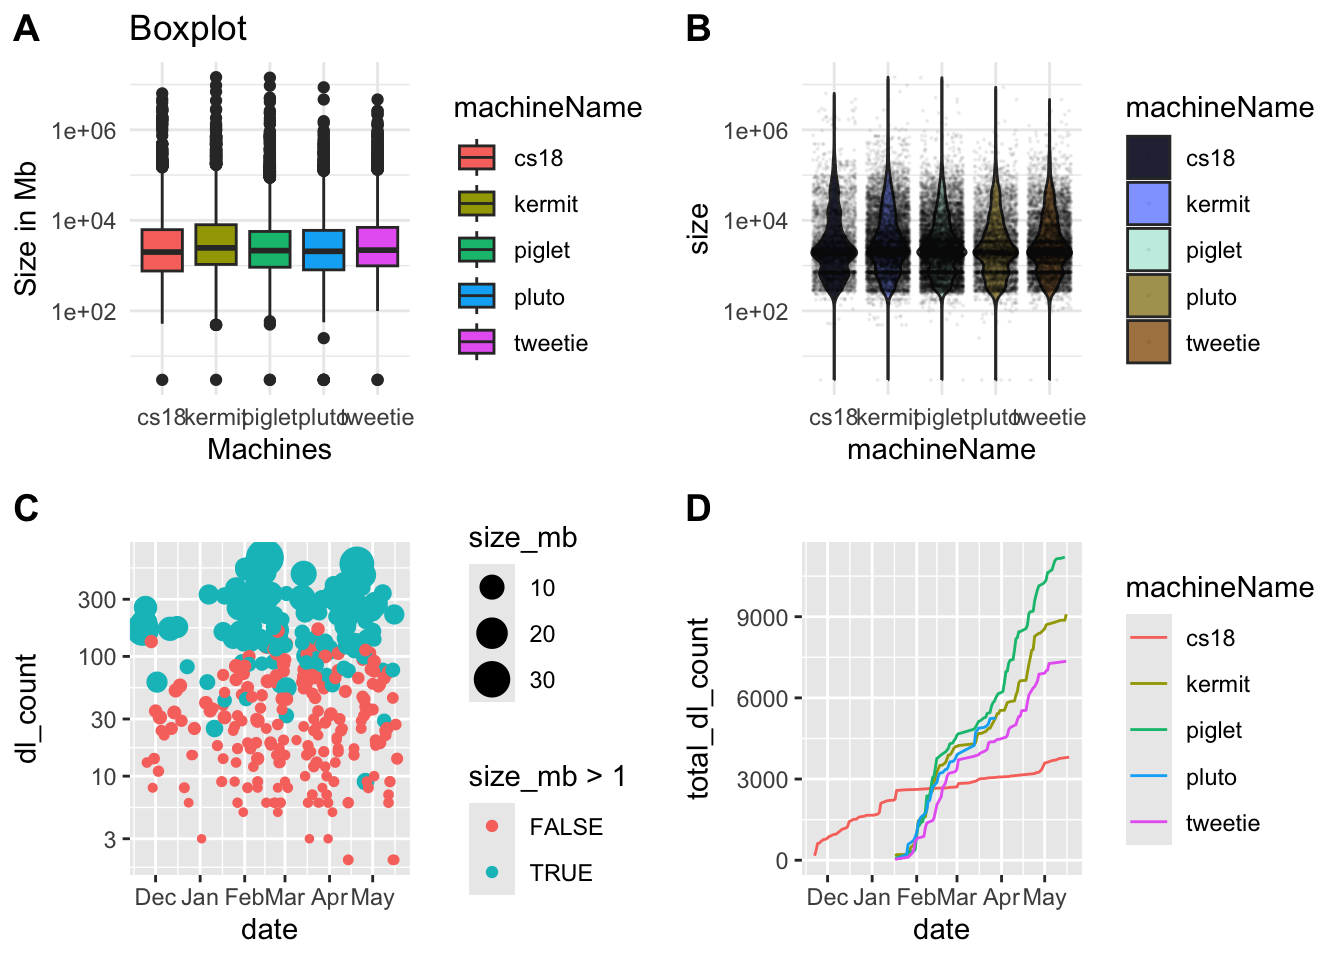
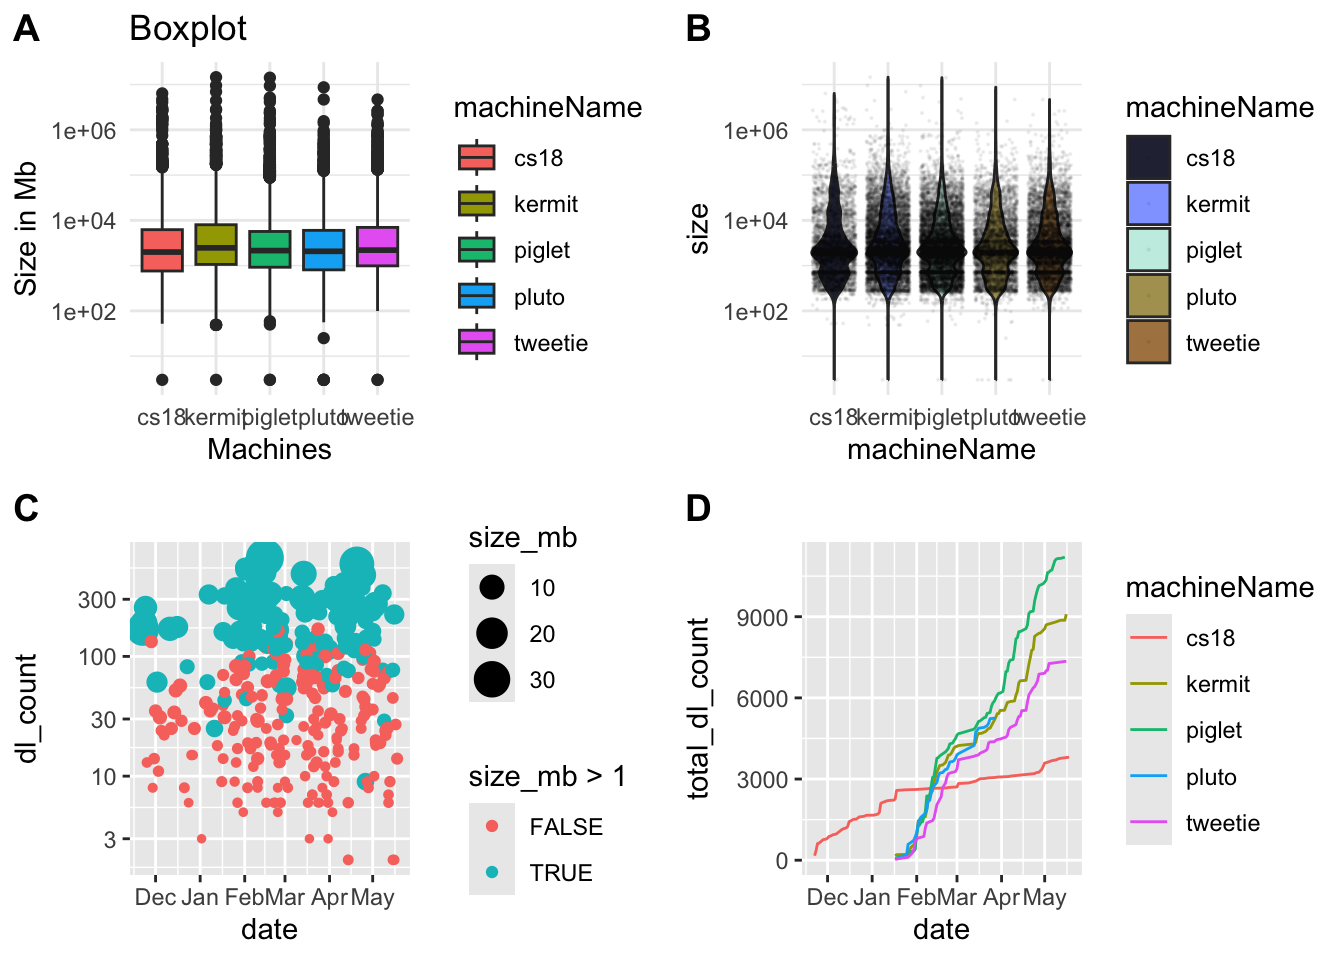
presentations folder remade

Changed region(s): [[0.5938, 0.1562, 0.8125, 0.3125]]

diff --git a/docs/Presentations/presentation4.html b/docs/Presentations/presentation4.html
@@ -551,7 +551,7 @@ window.Quarto = {
 
 
 <p>This quaro document is part of the course <strong>Applied Statistics in R</strong> given at HeaDS Data Science Lab, University of Copenhagen. The course is open to all interested students and researchers. The course is given in the fall semester every year.</p>
-<p>“Want to code along? Go to the Data tab of the website and press the <strong>DOWNLOAD PRESENTATIONS</strong> button. This is presentation 4.”</p>
+<p>Want to code along? Go to the Data tab of the website and press the <strong>DOWNLOAD PRESENTATIONS</strong> button. This is presentation 4.</p>
 <section id="structure-of-a-biostatistical-analysis-in-r" class="level2">
 <h2 class="anchored" data-anchor-id="structure-of-a-biostatistical-analysis-in-r">Structure of a biostatistical analysis in R</h2>
 <p>The very basic structure of an R doc when doing a classical statistical analysis is as follows:</p>
@@ -989,11 +989,11 @@ log(Girth)   2.016238  2.383702</code></pre>
 <span id="cb42-6"><a href="#cb42-6" aria-hidden="true" tabindex="-1"></a>newData</span></code></pre></div><button title="Copy to Clipboard" class="code-copy-button"><i class="bi"></i></button></div>
 <div class="cell-output cell-output-stdout">
 <pre><code>  Girth
-1  9.68
-2 17.26
-3 15.88
-4 11.22
-5 13.04</code></pre>
+1 10.61
+2 12.62
+3 19.52
+4 12.55
+5 13.46</code></pre>
 </div>
 </div>
 <p>Next, we use the function predict to compute the predicted log-volumes and confidence intervals for these predictions.</p>
@@ -1003,17 +1003,17 @@ log(Girth)   2.016238  2.383702</code></pre>
 <span id="cb44-3"><a href="#cb44-3" aria-hidden="true" tabindex="-1"></a>pred</span></code></pre></div><button title="Copy to Clipboard" class="code-copy-button"><i class="bi"></i></button></div>
 <div class="cell-output cell-output-stdout">
 <pre><code>       fit      lwr      upr
-1 2.640743 2.573148 2.708338
-2 3.913051 3.844912 3.981190
-3 3.729725 3.672805 3.786645
-4 2.965538 2.916127 3.014948
-5 3.296245 3.253972 3.338519</code></pre>
+1 2.842557 2.787115 2.898000
+2 3.224221 3.181799 3.266643
+3 4.183753 4.096735 4.270770
+4 3.211984 3.169453 3.254516
+5 3.365986 3.323046 3.408926</code></pre>
 </div>
 <div class="code-copy-outer-scaffold"><div class="sourceCode cell-code" id="cb46"><pre class="sourceCode r code-with-copy"><code class="sourceCode r"><span id="cb46-1"><a href="#cb46-1" aria-hidden="true" tabindex="-1"></a><span class="co"># back-transform to original scale</span></span>
 <span id="cb46-2"><a href="#cb46-2" aria-hidden="true" tabindex="-1"></a><span class="fu">exp</span>(pred[,<span class="dv">1</span>])  </span></code></pre></div><button title="Copy to Clipboard" class="code-copy-button"><i class="bi"></i></button></div>
 <div class="cell-output cell-output-stdout">
 <pre><code>       1        2        3        4        5 
-14.02362 50.05143 41.66764 19.40514 27.01103 </code></pre>
+17.15959 25.13399 65.61162 24.82831 28.96204 </code></pre>
 </div>
 </div>
 </section>
@@ -1058,11 +1058,11 @@ F-statistic: 609.8 on 2 and 28 DF,  p-value: &lt; 2.2e-16</code></pre>
 <span id="cb51-6"><a href="#cb51-6" aria-hidden="true" tabindex="-1"></a>newData</span></code></pre></div><button title="Copy to Clipboard" class="code-copy-button"><i class="bi"></i></button></div>
 <div class="cell-output cell-output-stdout">
 <pre><code>  Girth Height
-1  9.68  74.18
-2 17.26  67.98
-3 15.88  71.81
-4 11.22  88.20
-5 13.04  83.34</code></pre>
+1 10.61  83.05
+2 12.62  73.44
+3 19.52  69.07
+4 12.55  82.85
+5 13.46  65.53</code></pre>
 </div>
 </div>
 <p>Lastly, we predict log-volume for these new values of Girth and Height.</p>
@@ -1072,16 +1072,16 @@ F-statistic: 609.8 on 2 and 28 DF,  p-value: &lt; 2.2e-16</code></pre>
 <span id="cb53-3"><a href="#cb53-3" aria-hidden="true" tabindex="-1"></a>pred</span></code></pre></div><button title="Copy to Clipboard" class="code-copy-button"><i class="bi"></i></button></div>
 <div class="cell-output cell-output-stdout">
 <pre><code>       fit      lwr      upr
-1 2.675725 2.625889 2.725561
-2 3.729746 3.645369 3.814123
-3 3.621893 3.564541 3.679246
-4 3.178682 3.091008 3.266355
-5 3.403956 3.353447 3.454465</code></pre>
+1 2.990619 2.922299 3.058938
+2 3.190626 3.157914 3.223338
+3 3.990117 3.894444 4.085790
+4 3.320651 3.269743 3.371559
+5 3.199852 3.130195 3.269510</code></pre>
 </div>
 <div class="code-copy-outer-scaffold"><div class="sourceCode cell-code" id="cb55"><pre class="sourceCode r code-with-copy"><code class="sourceCode r"><span id="cb55-1"><a href="#cb55-1" aria-hidden="true" tabindex="-1"></a><span class="fu">exp</span>(pred[,<span class="dv">1</span>]) </span></code></pre></div><button title="Copy to Clipboard" class="code-copy-button"><i class="bi"></i></button></div>
 <div class="cell-output cell-output-stdout">
 <pre><code>       1        2        3        4        5 
-14.52287 41.66852 37.40832 24.01507 30.08287 </code></pre>
+19.89799 24.30363 54.06122 27.67837 24.52891 </code></pre>
 </div>
 </div>
 <p>BUT, which model should we chose?</p>
